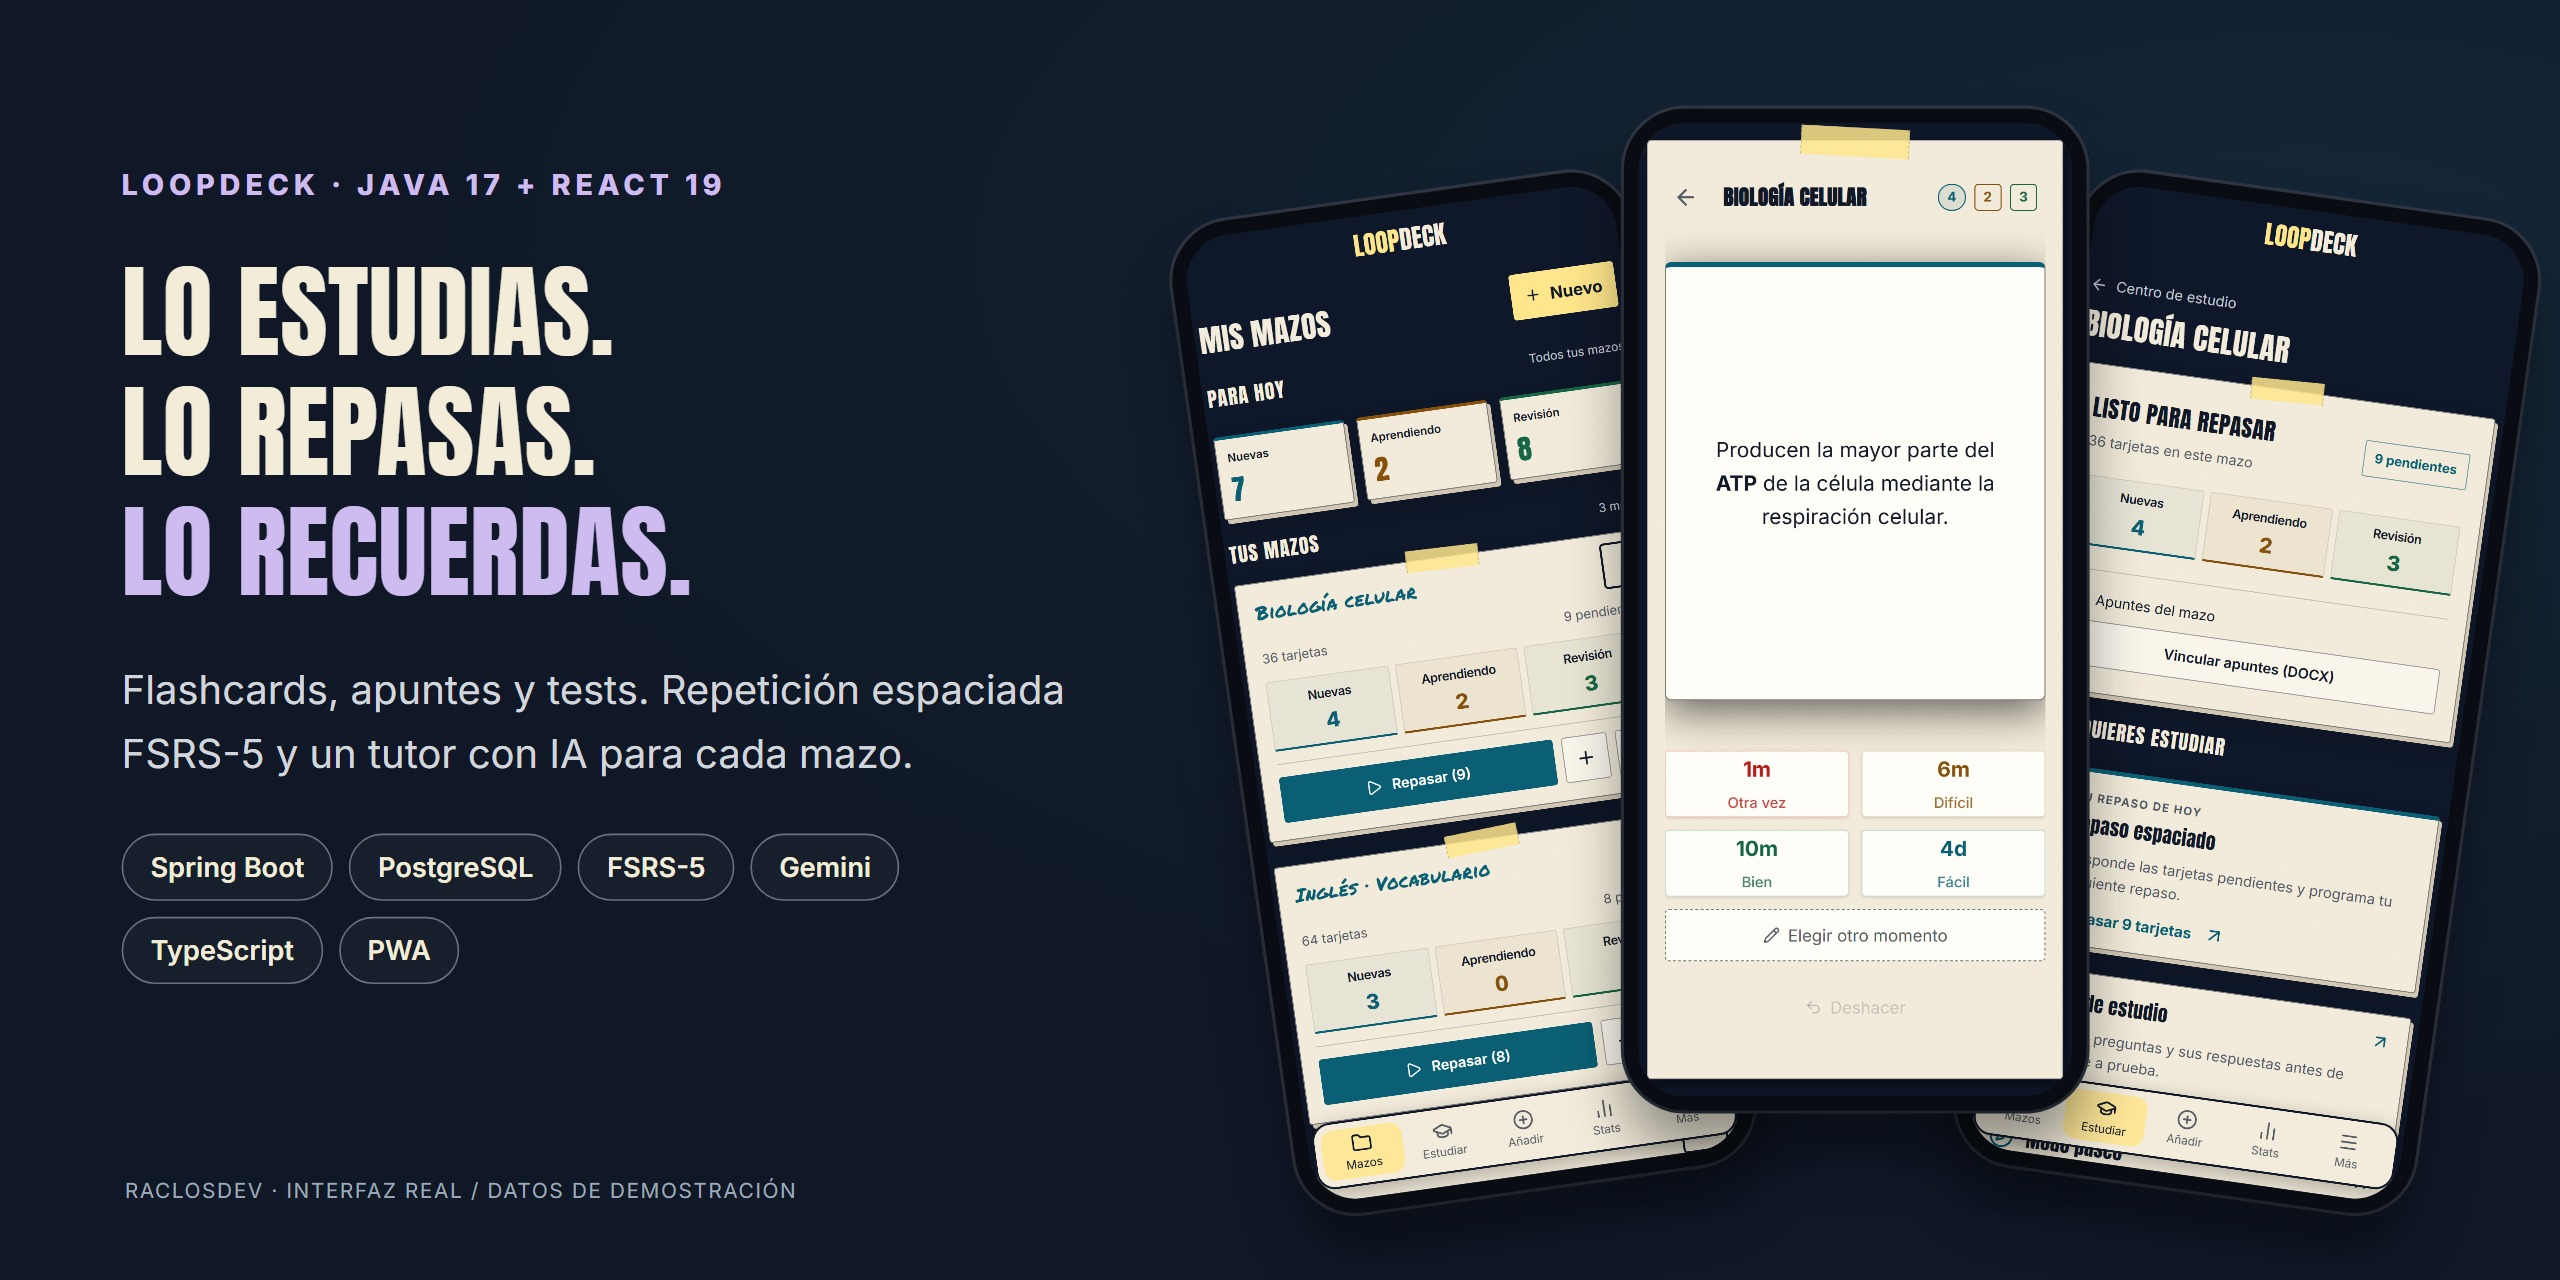
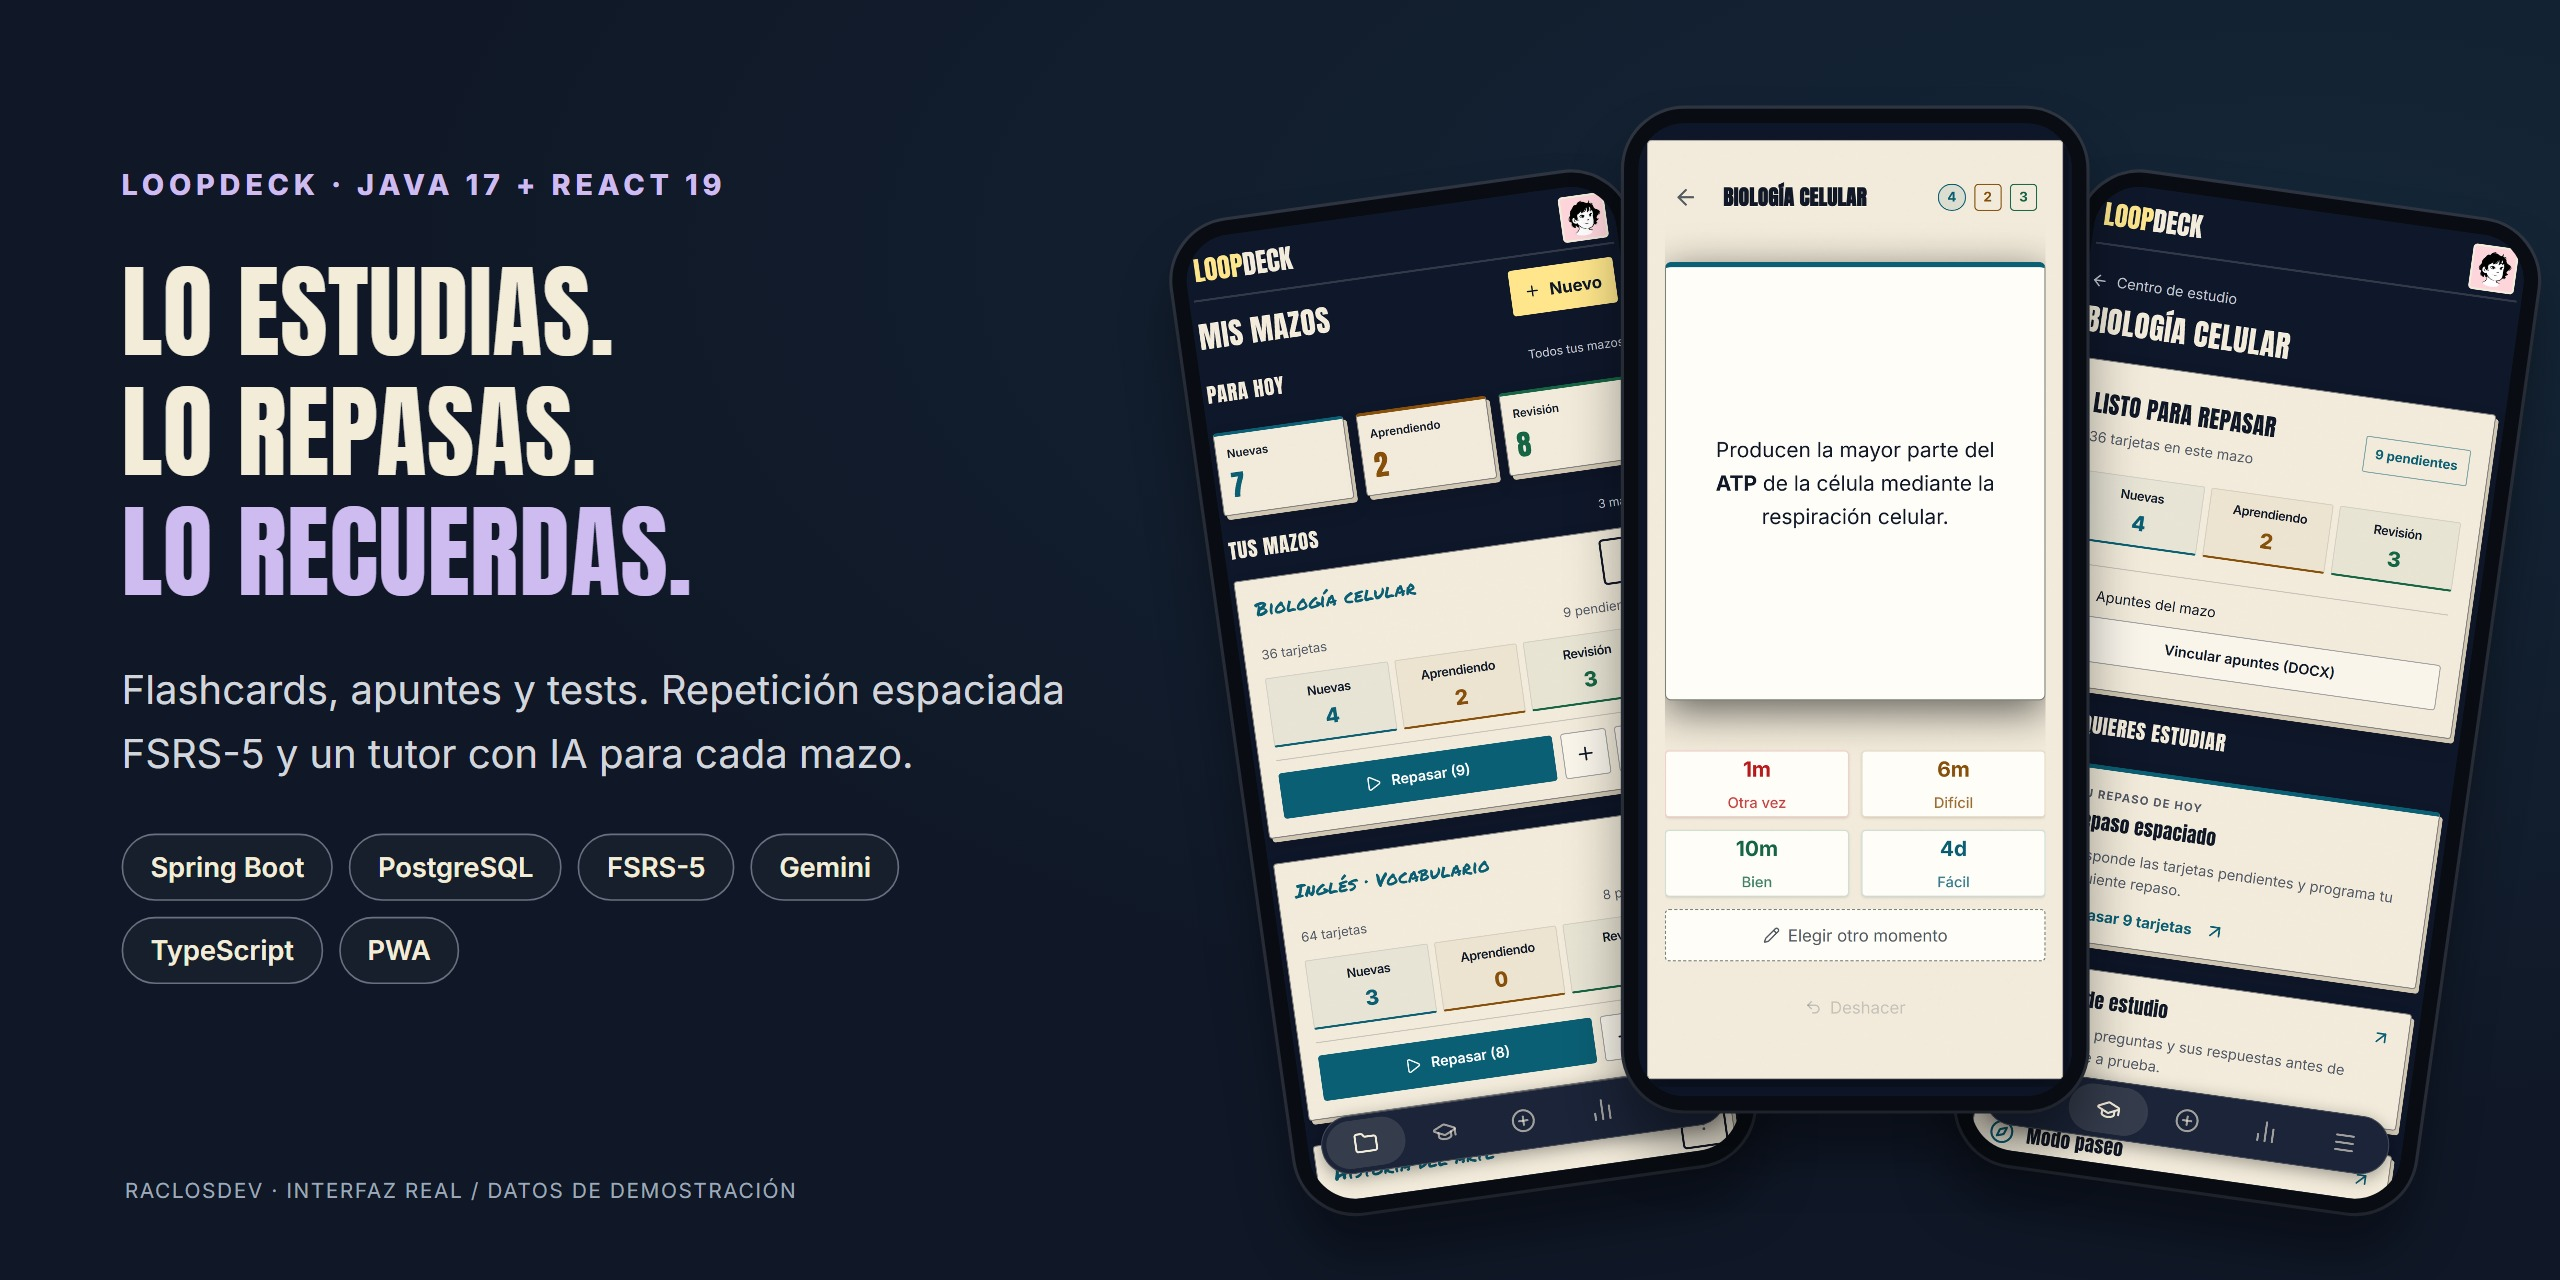
docs: README al día con las capturas nuevas con sesión iniciada

diff --git a/README.md b/README.md
@@ -40,7 +40,7 @@ Es un proyecto personal de **Carlos Sanz Tomero**, desarrollado desde el modelo 
   </tr>
 </table>
 
-_Interfaz real capturada desde el código actual, con datos ficticios y las fuentes de la app. [Reproducir las capturas](docs/screenshots/README.md)._
+_Interfaz real con la sesión iniciada, capturada en noviembre de 2026 con datos ficticios y las fuentes de la app. [Reproducir las capturas](docs/screenshots/README.md)._
 
 ## Qué puedes hacer
 
@@ -50,7 +50,7 @@ _Interfaz real capturada desde el código actual, con datos ficticios y las fuen
 | **Elegir cómo estudiar** | Lee la guía, recorre tarjetas sin calificarlas, practica por bloques o responde tests de cuatro opciones. El tutor IA responde sobre el contenido del mazo. |
 | **Repasar con continuidad** | Valora el recuerdo para que FSRS-5 programe la siguiente revisión. Puedes elegir otro intervalo y deshacer el último repaso. |
 | **Preparar material con IA** | Genera definiciones y tarjetas a partir de listas de términos con Google Gemini. También hay plantillas de capitales y banderas para empezar. |
-| **Seguir lo pendiente** | Consulta las tarjetas nuevas, en aprendizaje y disponibles para repaso por mazo. Usa la misma cuenta en móvil y escritorio, con temas claro y oscuro y atajos de teclado. |
+| **Seguir lo pendiente** | Consulta las tarjetas nuevas, en aprendizaje y disponibles para repaso por mazo. Usa la misma cuenta en móvil y escritorio, con barra inferior de navegación en el móvil, menú de cuenta en la cabecera, temas claro y oscuro y atajos de teclado. |
 
 ## Un recorrido para probarla
 

diff --git a/docs/screenshots/README.md b/docs/screenshots/README.md
@@ -1,6 +1,6 @@
 # Capturas de LoopDeck
 
-Las imágenes muestran la aplicación React del repositorio ejecutada en Chromium con emulación móvil de 430 × 932 píxeles CSS y densidad 2× (imágenes de 860 × 1864). Los mazos, el usuario, los recuentos y los intervalos son ficticios; las respuestas de API se simulan en el navegador. No se accede a cuentas ni bases de datos reales, ni se generan imágenes con IA.
+Las imágenes muestran la aplicación React del repositorio ejecutada en Chromium con emulación móvil de 430 × 932 píxeles CSS y la sesión iniciada. El script captura a densidad 3× (1290 × 2796) y las imágenes del repositorio están reducidas a 860 × 1864. Los mazos, el usuario, los recuentos y los intervalos son ficticios, y la foto de perfil es un avatar ilustrado ([DiceBear Lorelei](https://www.dicebear.com/styles/lorelei/), CC0) guardado en `avatars.json`; las respuestas de API se simulan en el navegador. No se accede a cuentas ni bases de datos reales, ni se generan imágenes con IA.
 
 ## Reproducir
 
